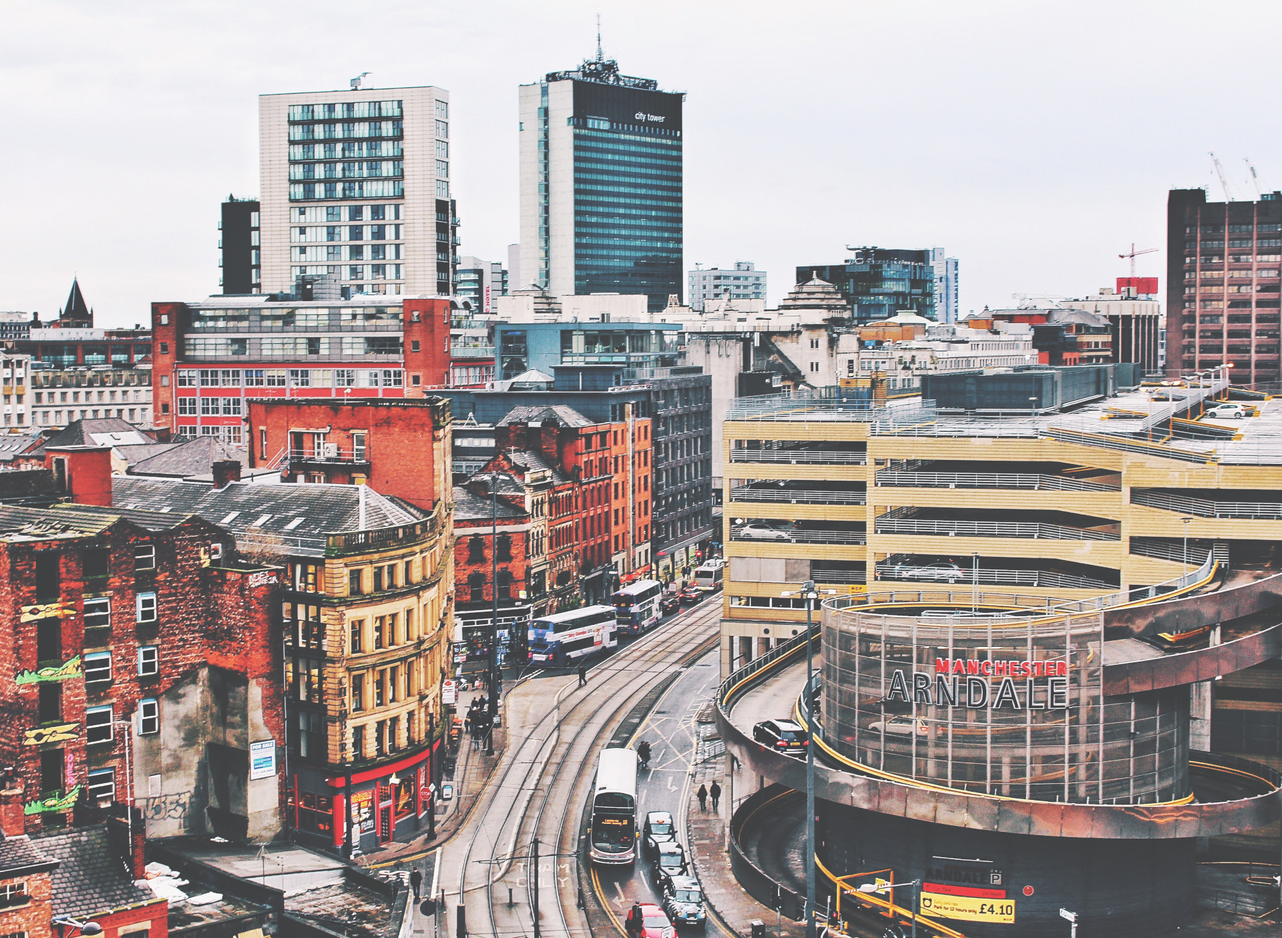
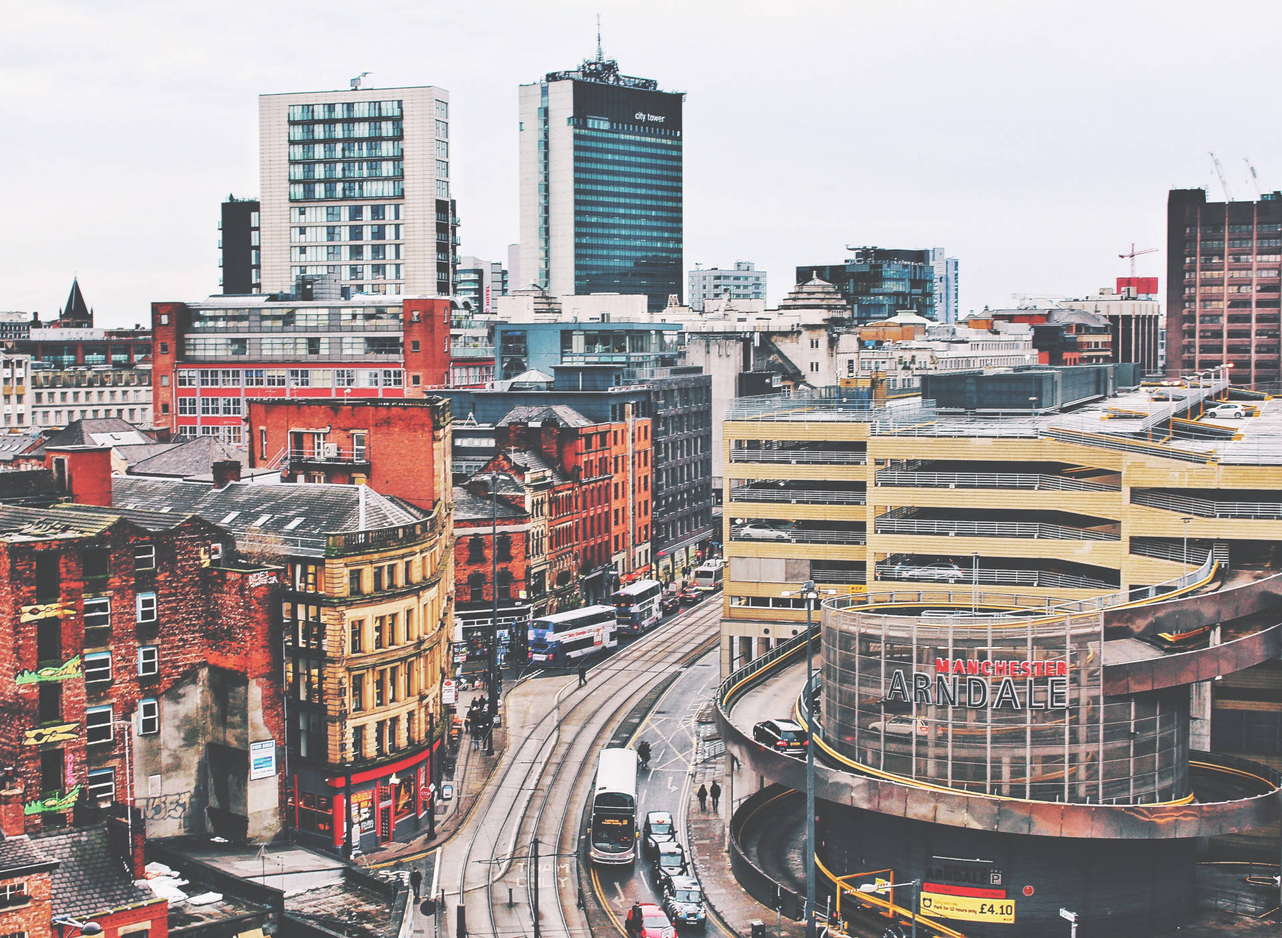
Messed with images to reduce total filesize

diff --git a/src/App.css b/src/App.css
@@ -496,7 +496,9 @@ h2.articleTitle {
 }
 
 .bgimg-doggo {
-  background-image: url('./media/doggo2.gif');
+  background-image: url('./media/doggo.jpg');
+  background-position: center;
+
 }
 
 .commentList {
